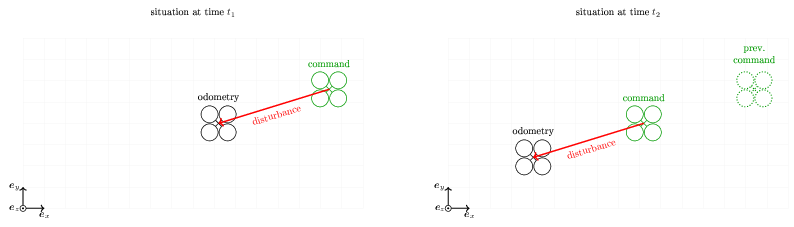
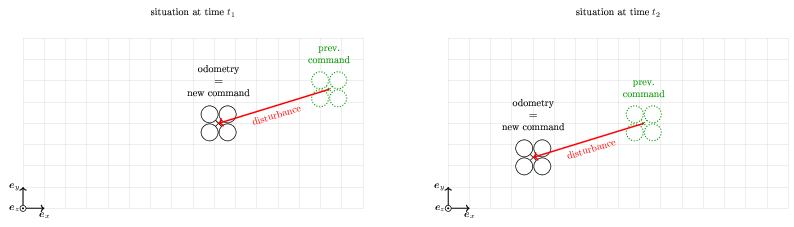
writing up the command setpoint frame problem, added figure

diff --git a/docs/system/fig/src/setpoint_frame_fig2.tex b/docs/system/fig/src/setpoint_frame_fig2.tex
@@ -54,7 +54,8 @@
     grid/.style={line width=0, gray!60}
   ]
 
-  \coordinate (dm) at (1.3, 0.4);
+  \coordinate (dm) at (1.3, 0.7);
+  \coordinate (v) at (1.5, 0);
   \coordinate (txtOff) at (0, 0.3);
 
   %%{ draw first figure contents
@@ -80,15 +81,19 @@
     \draw[mark=*, mark size=1.0, black, mark options={fill=white}] plot coordinates { (0, 0, 0) };
     \draw[mark=*, mark size=0.2, black] plot coordinates { (0, 0, 0) }  node[anchor=east]{$\vec{e}_z$};
 
-    \coordinate (mo1) at (2.3, 1);
-    \coordinate (mc1) at ($ (mo1) + (dm) $);
+    \coordinate (mo1) at (0.5, 1);
+    \coordinate (mc1) at ($ (mo1) + (0.8, 0.7) $);
+    \coordinate (mn1) at ($ (mo1) + (1.5, 0) $);
     
     \drawDrone{(mo1)}{0.1}{thin}
     \drawDrone{(mc1)}{0.1}{thick, dotted, draw=green!60!black}
+    \drawDrone{(mn1)}{0.1}{draw=green!60!black}
     \draw [red, very thick, ->] (mc1) -- (mo1) node [midway, red, yshift=-0.3cm, sloped] {disturbance};
+    \draw [blue, very thick, ->] (mo1) -- (mn1) node [midway, blue, yshift=-0.3cm, sloped] {des. velocity};
 
-    \node [align=center] at ($ (mo1) + (0, 0.5) $) {odometry\\\textbf{=}\\new command};
+    \node [align=center] at ($ (mo1) + (0, 0.3) $) {odometry};
     \node [green!60!black, align=center] at ($ (mc1) + (0, 0.4) $) {prev.\\command};
+    \node [align=center, green!60!black] at ($ (mn1) + (0, 0.3) $) {new command};
   \end{scope}
   
   %%}
@@ -115,18 +120,19 @@
     \draw[mark=*, mark size=1.0, black, mark options={fill=white}] plot coordinates { (0, 0, 0) };
     \draw[mark=*, mark size=0.2, black] plot coordinates { (0, 0, 0) }  node[anchor=east]{$\vec{e}_z$};
 
-    \coordinate (mo2) at (1.0, 0.6);
-    \coordinate (mc2) at (2.3, 1);
+    \coordinate (mo1) at (1.2, 0.3);
+    \coordinate (mc1) at ($ (mo1) + (0.8, 0.7) $);
+    \coordinate (mn1) at ($ (mo1) + (1.5, 0) $);
     
-    \drawDrone{(mo2)}{0.1}{thin}
-    \drawDrone{(mc2)}{0.1}{thick, dotted, draw=green!60!black}
-    \draw [red, very thick, ->] (mc2) -- (mo2) node [midway, red, yshift=-0.3cm, sloped] {disturbance};
+    \drawDrone{(mo1)}{0.1}{thin}
+    \drawDrone{(mc1)}{0.1}{thick, dotted, draw=green!60!black}
+    \drawDrone{(mn1)}{0.1}{draw=green!60!black}
+    \draw [red, very thick, ->] (mc1) -- (mo1) node [midway, red, yshift=-0.3cm, sloped] {disturbance};
+    \draw [blue, very thick, ->] (mo1) -- (mn1) node [midway, blue, yshift=-0.3cm, sloped] {des. velocity};
 
-    % \drawDrone{(3.6, 1.4)}{0.1}{thick, dotted, draw=green!60!black}
-
-    \node [align=center] at ($ (mo2) + (0, 0.5) $) {odometry\\\textbf{=}\\new command};
-    \node [green!60!black, align=center] at ($ (mc2) + (0, 0.4) $) {prev.\\command};
-    % \node [green!60!black, align=center] at (3.6, 1.8) {orig.\\command};
+    \node [align=center] at ($ (mo1) + (0, 0.3) $) {odometry};
+    \node [green!60!black, align=center] at ($ (mc1) + (0, 0.4) $) {prev.\\command};
+    \node [align=center, green!60!black] at ($ (mn1) + (0, 0.3) $) {new command};
   \end{scope}
   
   %%}

diff --git a/docs/system/setpoint_frame.md b/docs/system/setpoint_frame.md
@@ -14,12 +14,16 @@ An intuitive (yet wrong) approach is to subscribe to the UAV odometry and publis
 However, this will most probably cause your UAV to drift, as is illustrated in the following figure.
 This is due to the fact, that the UAV is in practice *never* precisely at the commanded position, even when stationary (because of various disturbances, delays, noise in the odometry, UAV dynamics etc.).
 
+![uav_drift](fig/setpoint_frame_fig.png)
+
 More specifically, when you command the UAV at time $t_1$ to move to its current measured position $\mathbf{x}_c\left(t_1\right) = \mathbf{x}_m\left(t_1\right)$, it will attempt to go there as well as it can.
 However, at time $t_2$, it will actually reach some other (ideally very close) position $\mathbf{x}_m\left(t_2\right) \neq \mathbf{x}_c\left(t_1\right)$.
 Now again, you command the UAV again to go to its measured position $\mathbf{x}_c\left(t_2\right) = \mathbf{x}_m\left(t_1\right)$.
 You can already see, that the commanded position at $t_2$ is different, than the on at $t_1$.
 Even though you wanted your UAV to stay put, you are actually commanding it to move!
 
-![uav_drift](fig/setpoint_frame_fig.png)
-
 Unfortunately, what you have effectively created is a positive feedback causing the UAV to drift in a certain direction, which is given by random disturbances in the system.
+**Note that this problem applies to all motion, which is commanded relative to the UAV position!**
+The same situation emerges e.g. when you're trying to fly straight forward and supplying the commands relative to the current UAV position, as illustrated in the following figure.
+
+![uav_drift](fig/setpoint_frame_fig2.png)
